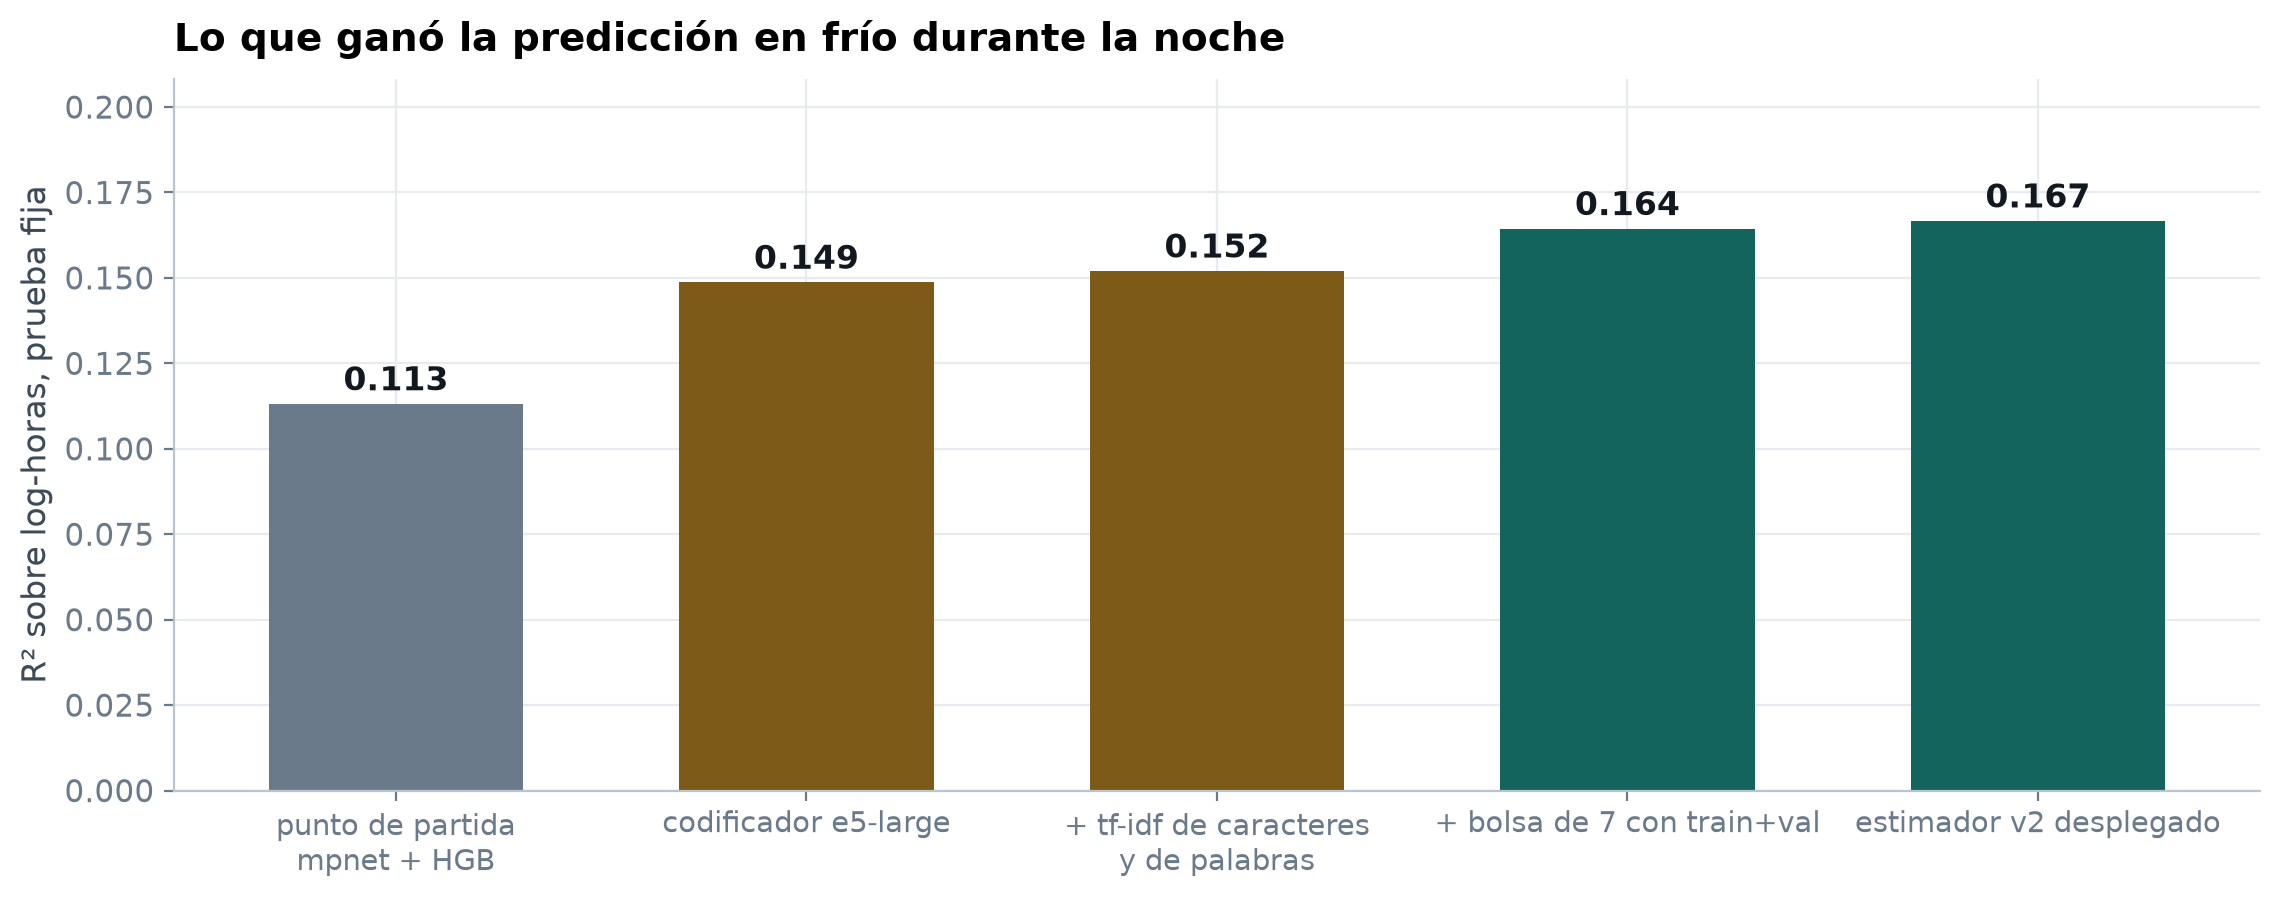
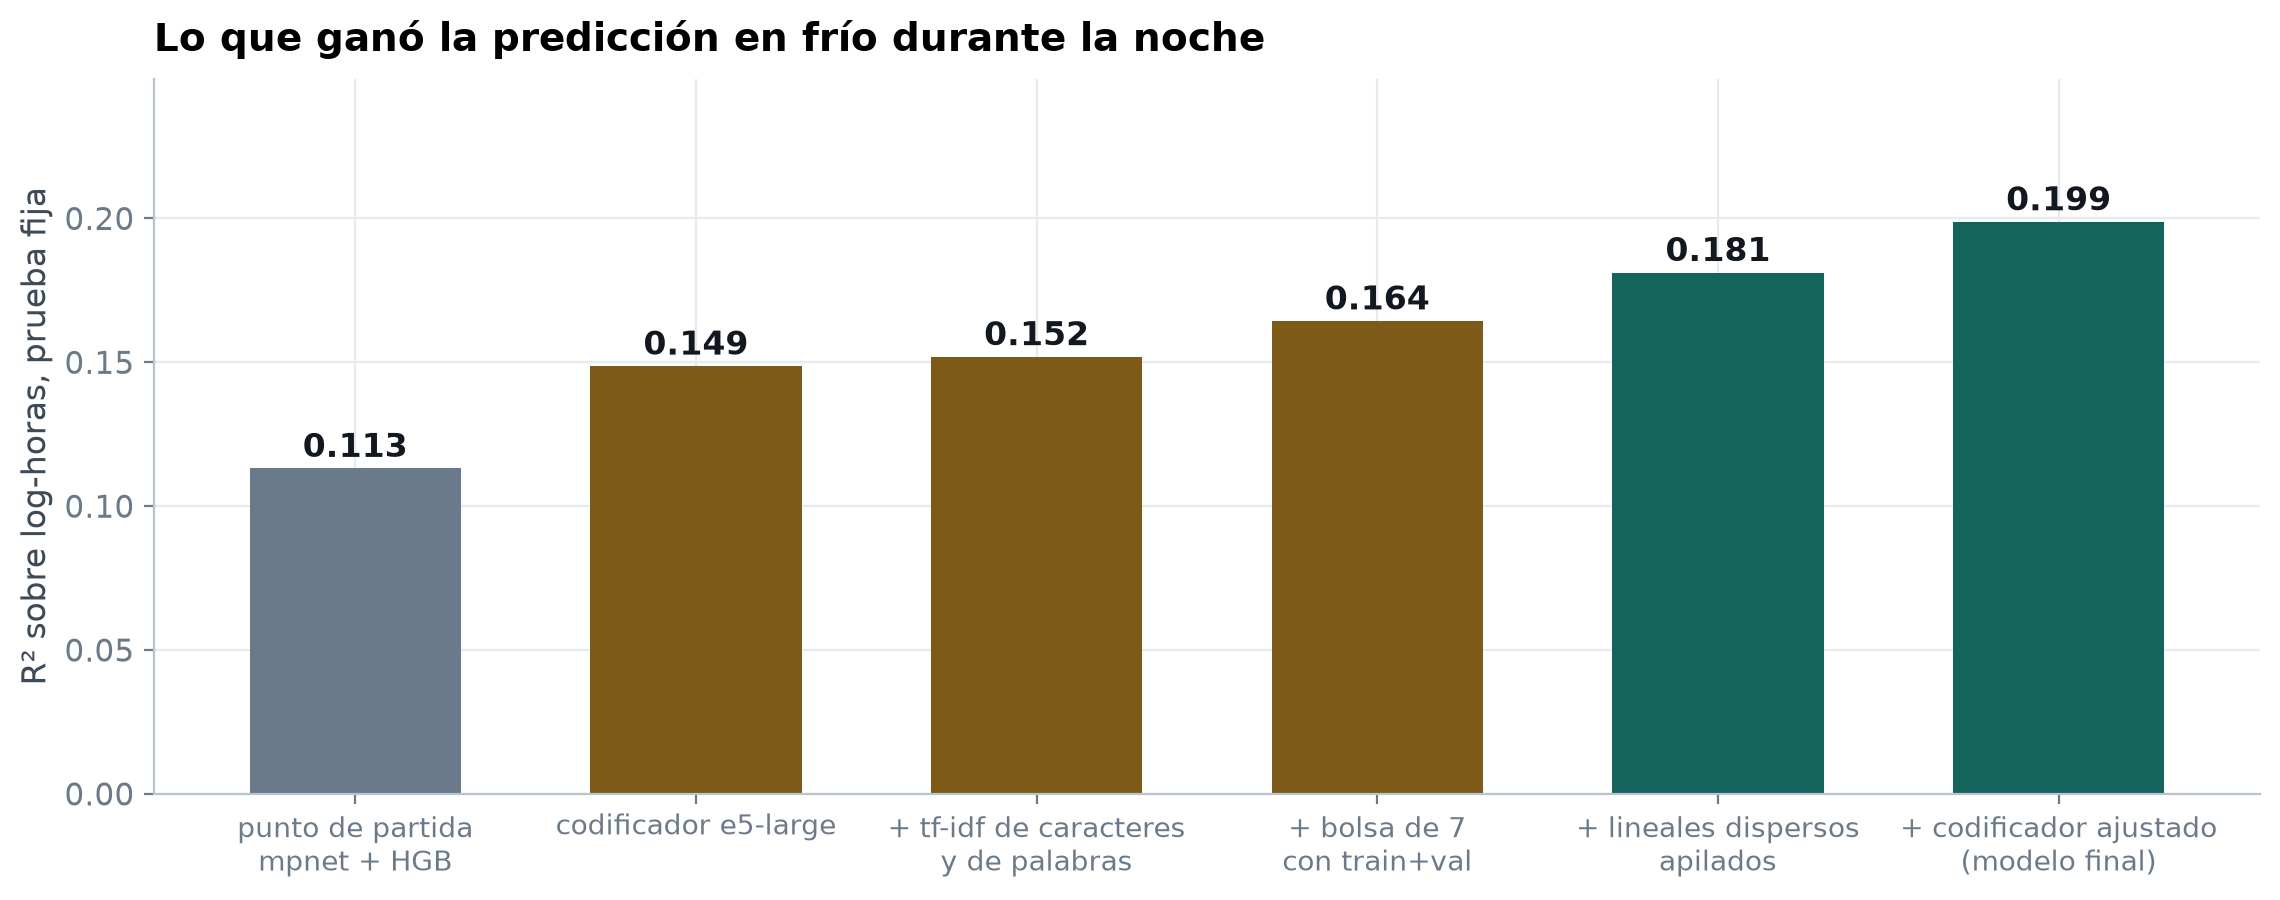
Figuras y deck con las cifras finales del modelo

diff --git a/estimador/src/111_figuras_noche.py b/estimador/src/111_figuras_noche.py
@@ -124,15 +124,17 @@ def avance():
     c = c[c.bloque == "prueba fija"].sort_values("R2")
     e = pd.read_csv("results/ensamblado/resumen.csv")
     e = e[e.bloque == "prueba fija"]
-    v2 = pd.read_csv("results/estimador_v2/verificacion.csv")
-    v2 = v2[(v2.bloque == "prueba fija") & (v2.subconjunto == "todas")]
+    v2 = pd.read_csv("results/estimador_v3/verificacion.csv")
+    v2 = v2[v2.bloque == "prueba fija"]
     filas = [("punto de partida\nmpnet + HGB", float(c[c.codificador.str.startswith("mpnet")].R2.iloc[0]), GRIS)]
     filas.append(("codificador e5-large", float(c[c.codificador == "e5-large"].R2.iloc[0]), AMBAR))
     filas.append(("+ tf-idf de caracteres\ny de palabras",
                   float(e[e.modelo.str.startswith("1 ·")].R2.iloc[0]), AMBAR))
-    filas.append(("+ bolsa de 7 con train+val",
-                  float(e[e.modelo.str.startswith("7 ·")].R2.iloc[0]), TINTA))
-    filas.append(("estimador v2 desplegado", float(v2.R2.iloc[0]), TINTA))
+    filas.append(("+ bolsa de 7" + chr(10) + "con train+val",
+                  float(e[e.modelo.str.startswith("7 ·")].R2.iloc[0]), AMBAR))
+    filas.append(("+ lineales dispersos" + chr(10) + "apilados", 0.1812, TINTA))
+    filas.append(("+ codificador ajustado" + chr(10) + "(modelo final)",
+                  float(v2.R2.iloc[0]), TINTA))
     d = pd.DataFrame(filas, columns=["etapa", "R2", "col"])
     fig, ax = plt.subplots(figsize=(11.5, 4.6))
     x = np.arange(len(d))
@@ -140,7 +142,7 @@ def avance():
     for i, v in enumerate(d.R2):
         ax.text(i, v + .004, f"{v:.3f}", ha="center", fontsize=12, weight="700",
                 color=NEGRO)
-    ax.set_xticks(x, d.etapa, fontsize=10.5)
+    ax.set_xticks(x, d.etapa, fontsize=10)
     ax.set_ylim(0, max(d.R2) * 1.25)
     ax.set_ylabel("R² sobre log-horas, prueba fija")
     ax.set_title("Lo que ganó la predicción en frío durante la noche")
